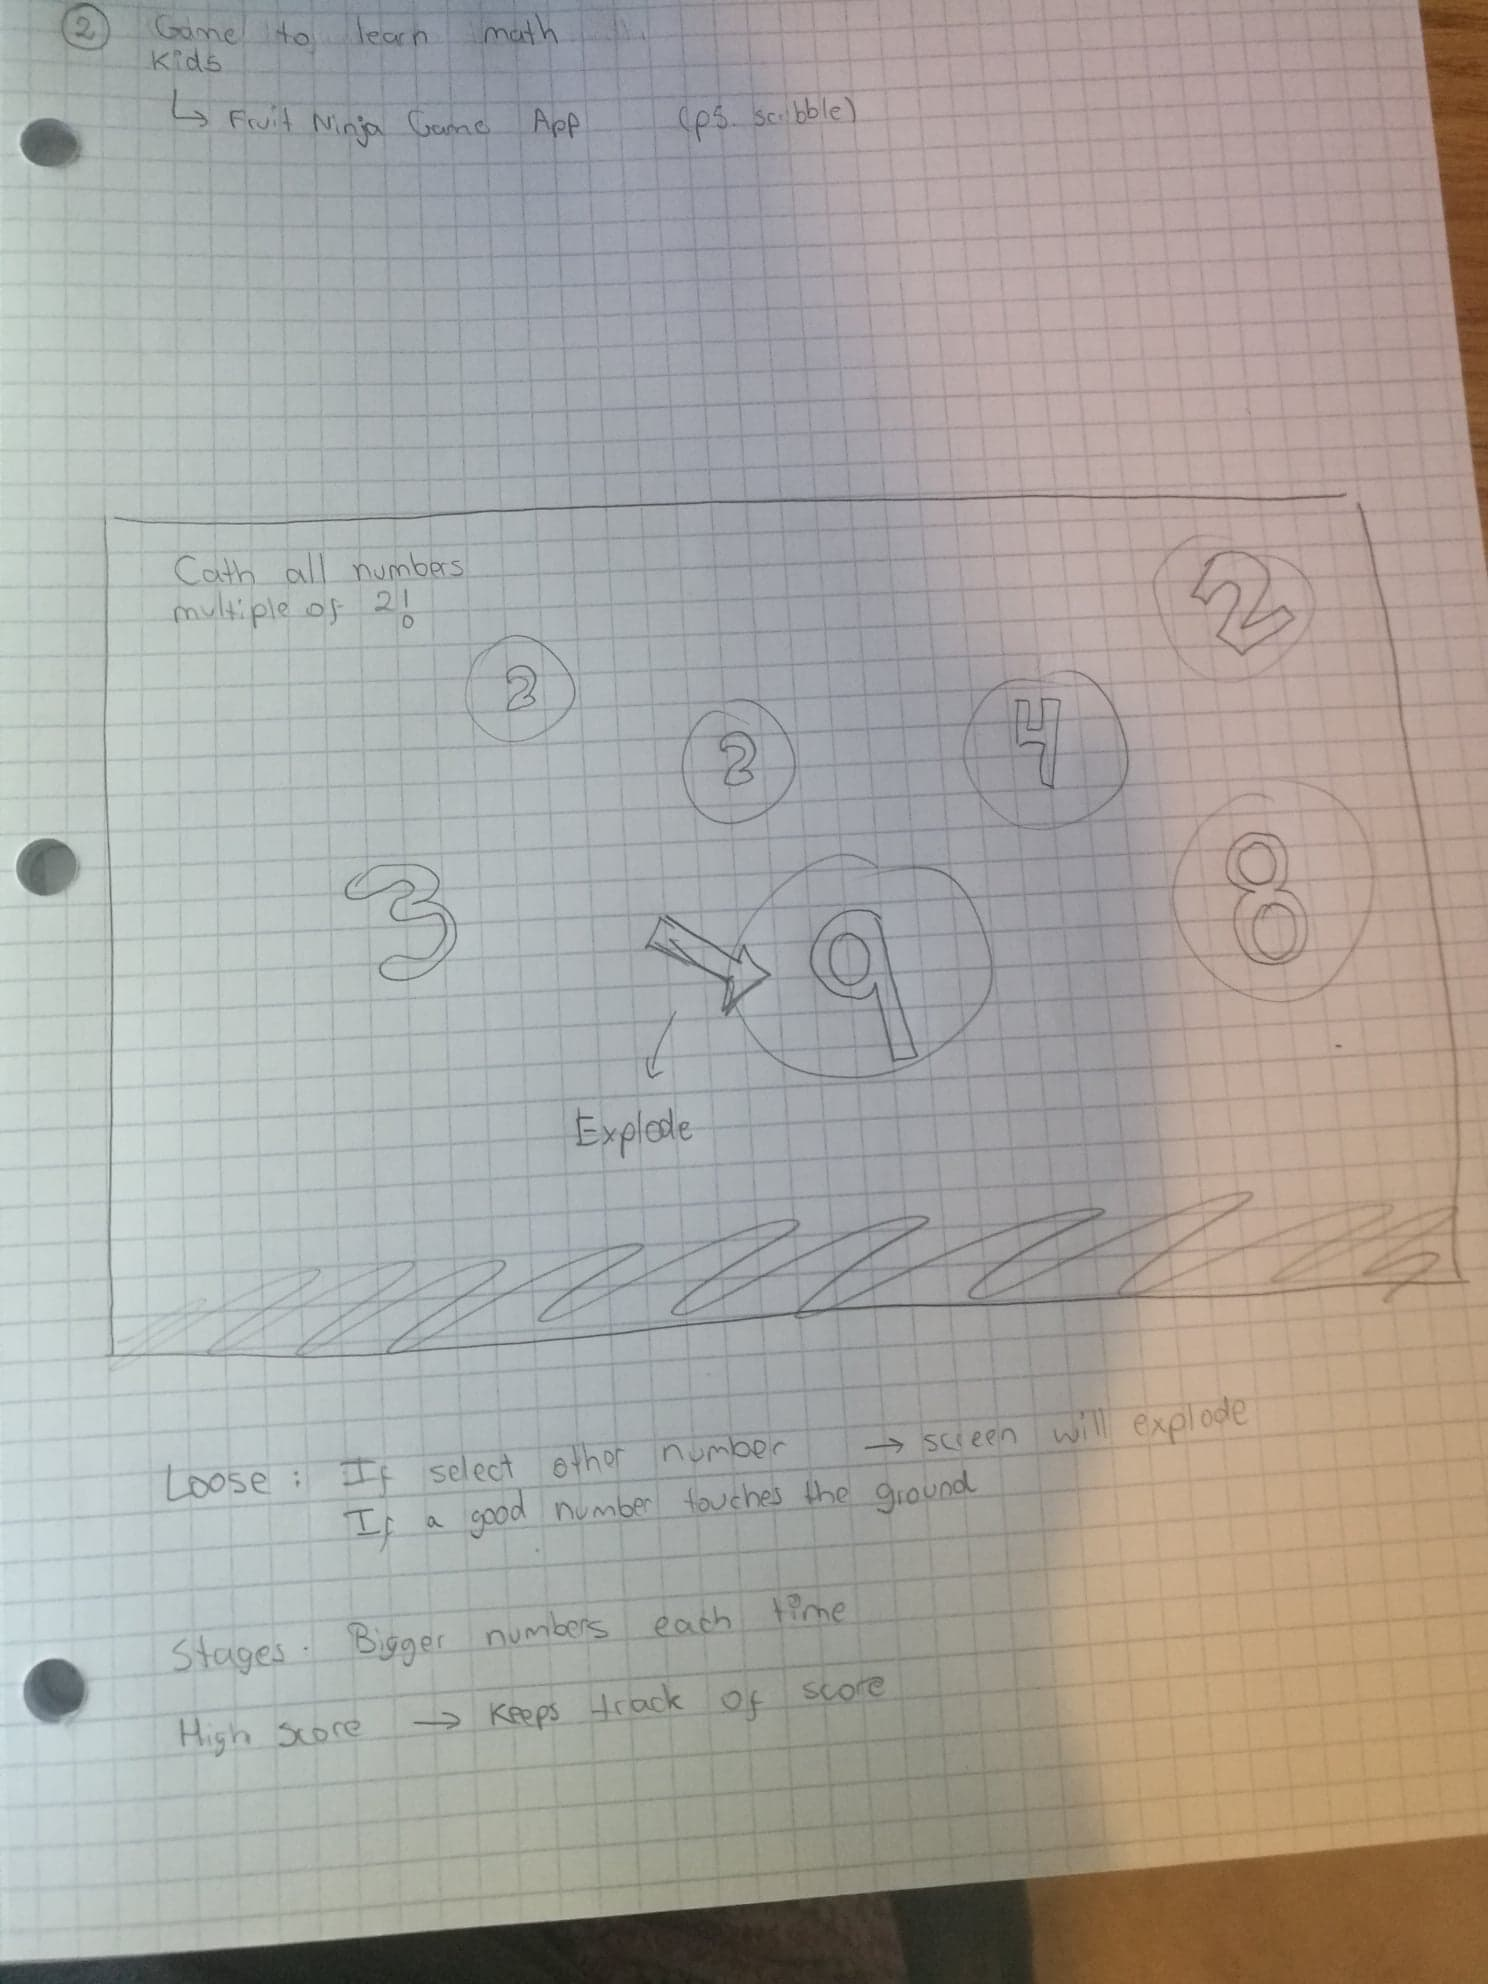
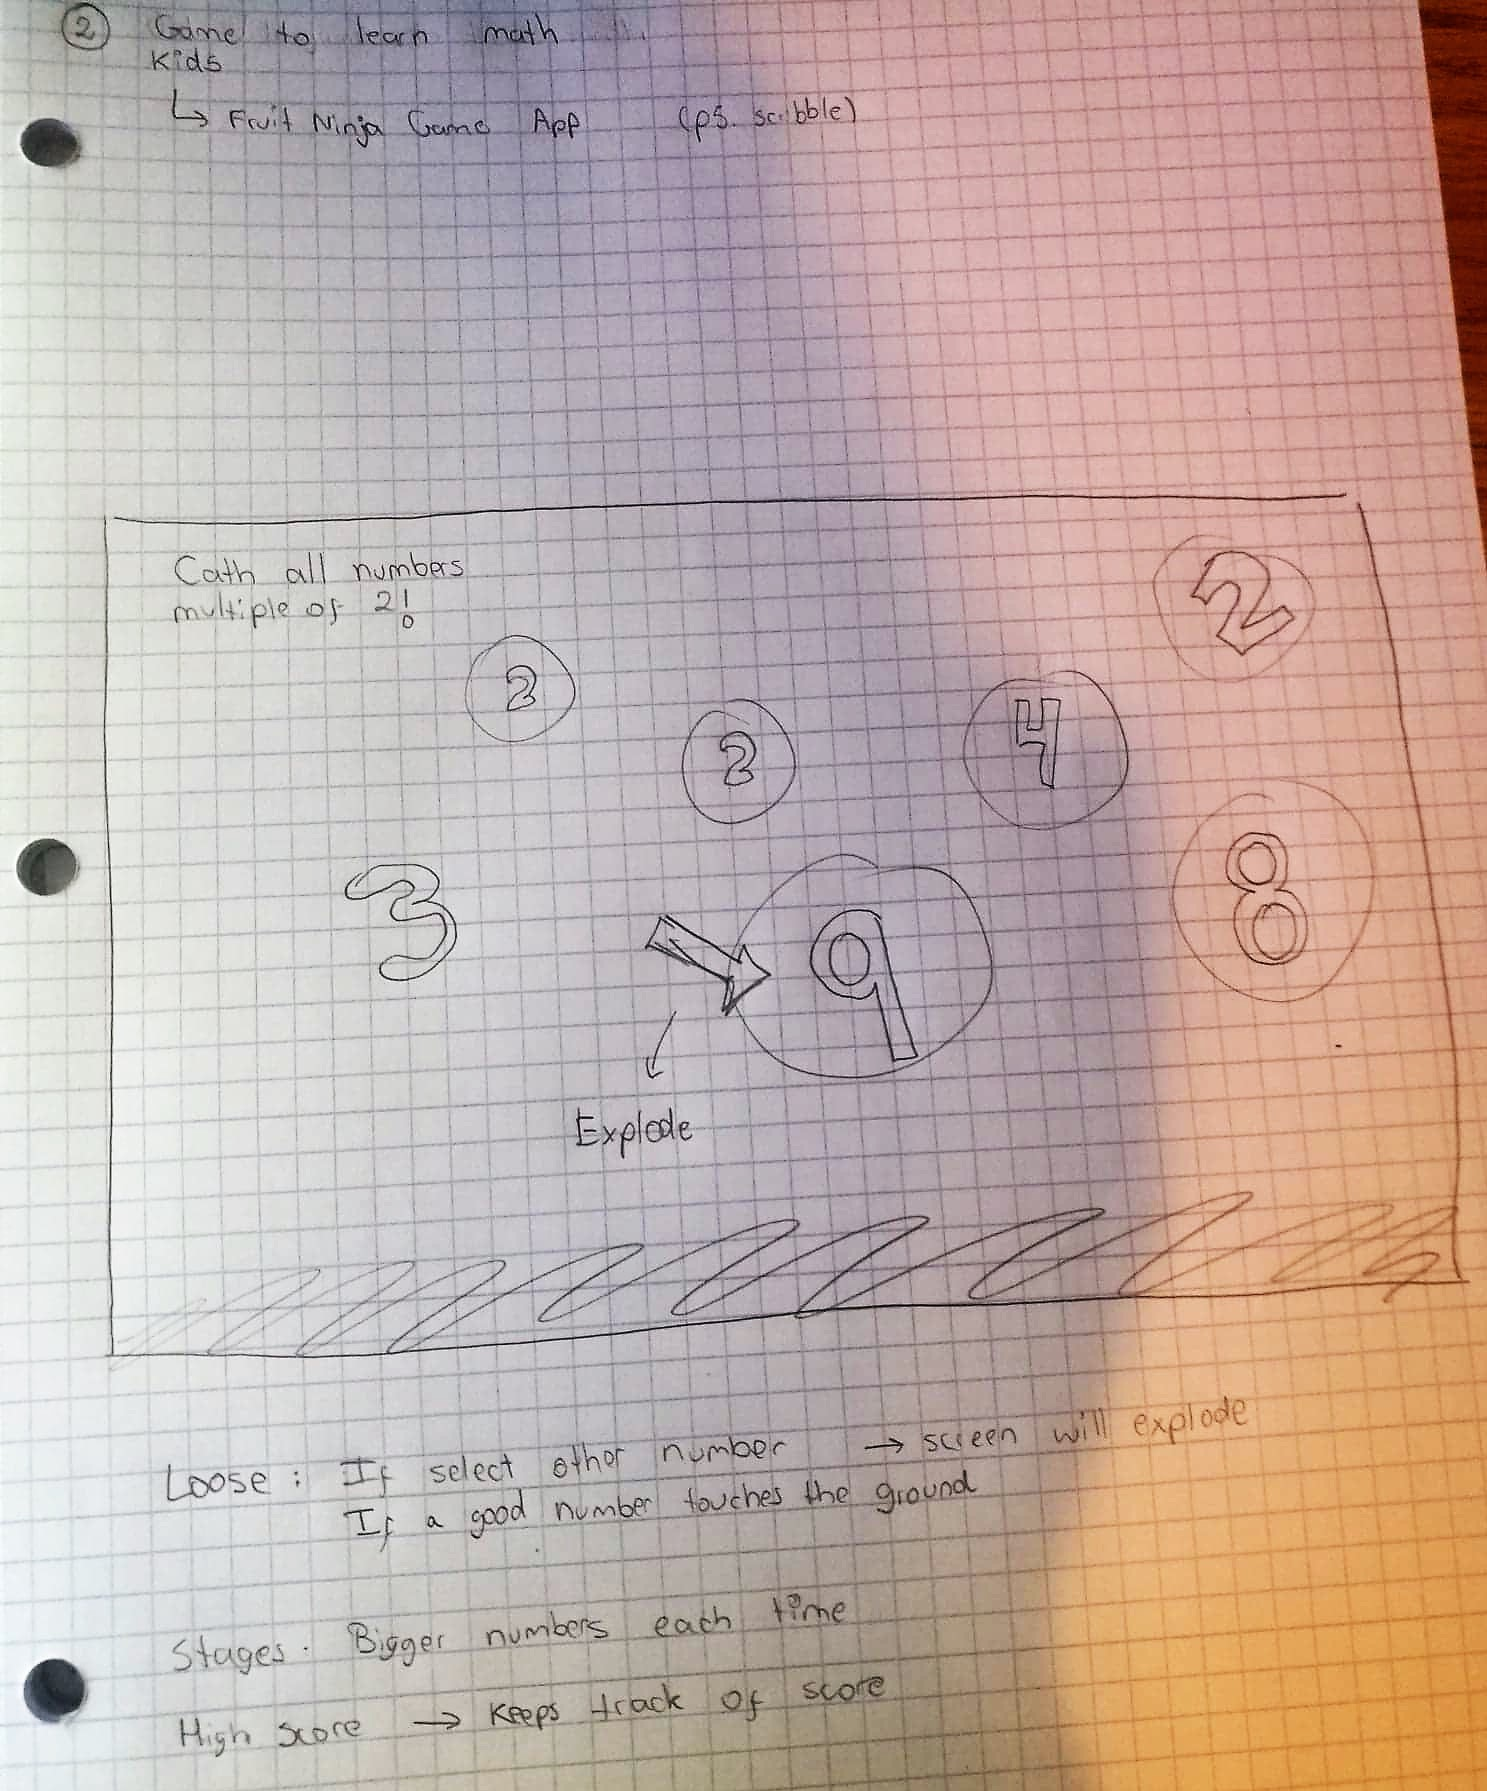
final project - idea 2

diff --git a/Hw/Final Project/ideas.md b/Hw/Final Project/ideas.md
@@ -12,8 +12,8 @@ Image 2:
 ![alt text](assets/idea1.jpg)
 
 * **What are your inputs?**<br>
-  * The user could use the arrows on the keyboard to move Trompita and jump through the fire rings.
-  * The user will click the buttons Play and Stop at any time during the game.
+  * The player could use the arrows on the keyboard to move Trompita and jump through the fire rings.
+  * The player will click the buttons Play and Stop at any time during the game.
 
 
 * **What are your outputs?**<br>
@@ -33,11 +33,31 @@ The game could be played in a tablet or computer.
 
 ## Idea 2
 
-* Why are you making this project? What is your motivation?
-* What are your inputs?
-* What are your outputs?
-* Who is the target audience for your project?
-* Where will your project be displayed?
+* **Why are you making this project? What is your motivation?** <br>
+I played a mobile game app called Fruit Ninja for a long time ago. In the game, the player had to slice fruit that is thrown into the air by swiping the device's touch screen with their finger(s) (as shown in Image 3).
+I want to mix a new version of this game with math and help little kids to learn math in a fun way. As shown in the prototype in Image 4, the game would have floating bubbles with numbers and the player will have different math challenges, for example, catching multiple numbers of 2 or sorting numbers by size, small to large. If the player catches the wrong number, then all bubbles will explode and the game will be over.
+
+Image 3:
+![alt text](assets/FruitImage.jpg)
+
+Image 4:
+![alt text](assets/idea2.jpg)
+
+* **What are your inputs?**
+  * The players will touch the screen with their fingers to pop the bubbles.
+
+
+* **What are your outputs?**
+  * When a bubble is touched it will disappear.
+  * If the wrong bubble is touched the game will be over.
+  * The player will see in the screen different challenges with instructions.
+
+
+* **Who is the target audience for your project?**<br>
+The target audience for my project are kids from 6 to 9 years old who are learning basic math. It is also the age when they are able to read and understand the instructions.
+
+* **Where will your project be displayed?** <br>
+The game could be displayed in big screens from stores or shopping malls. When parents are buying, kids could be playing this simple game while learning math. 
 
 ## Idea 3
 
